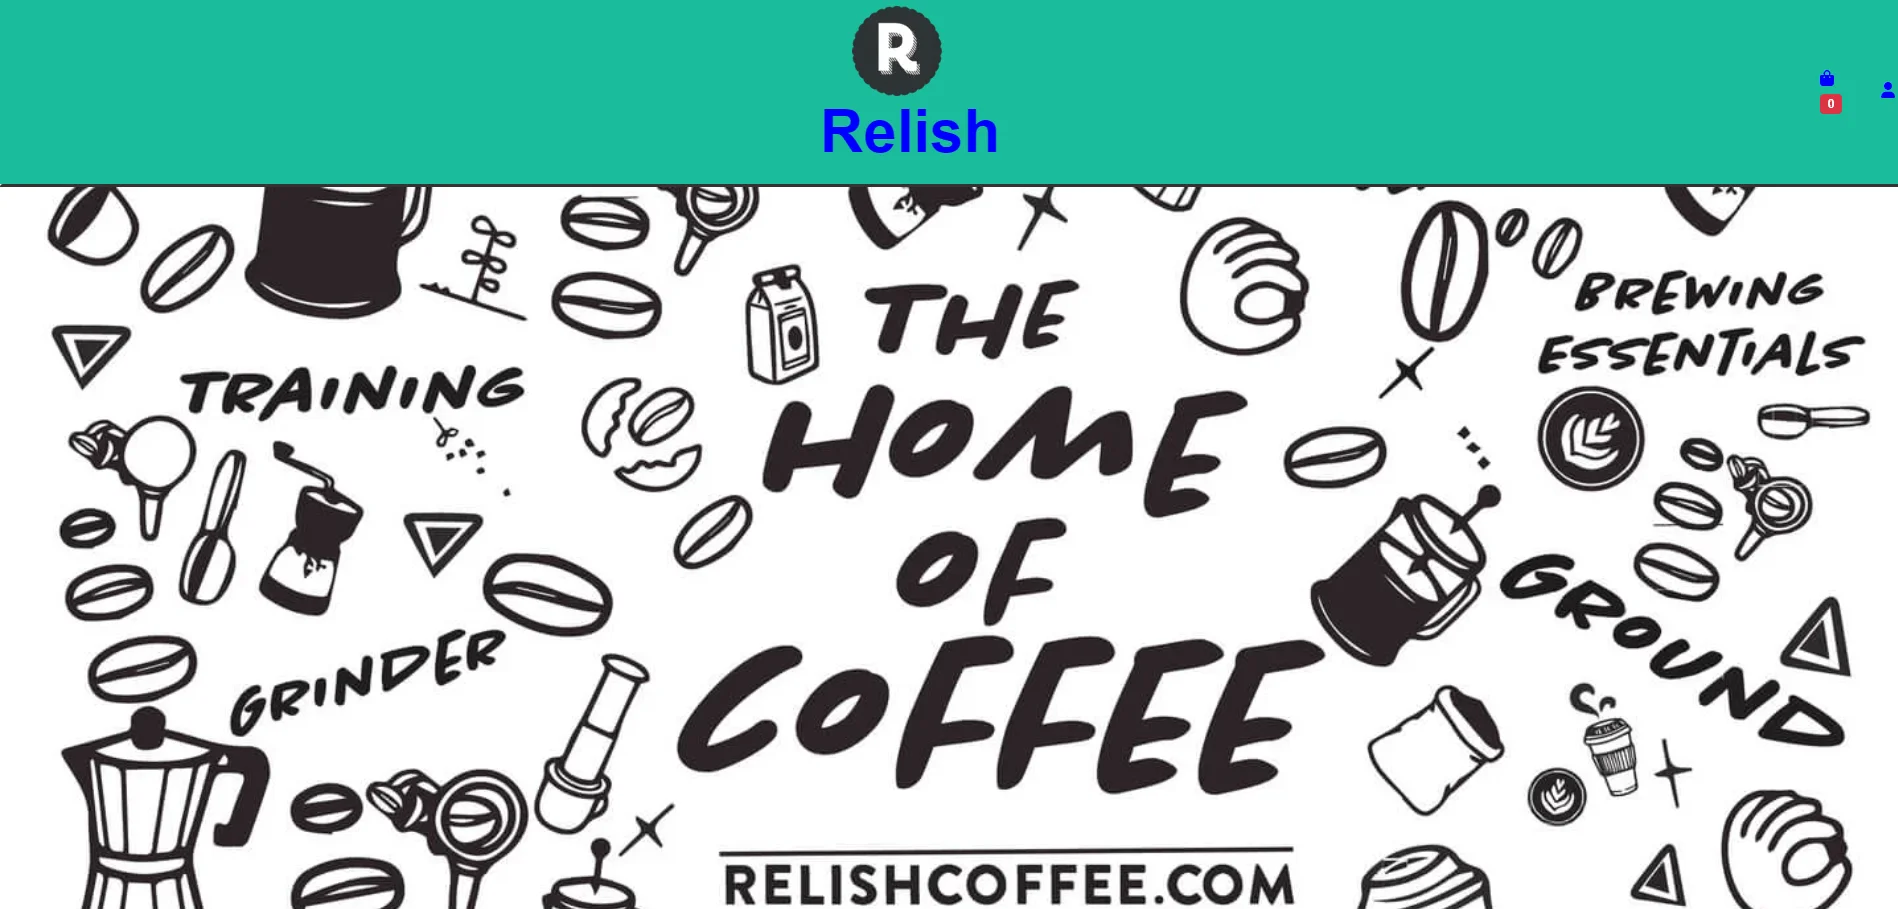
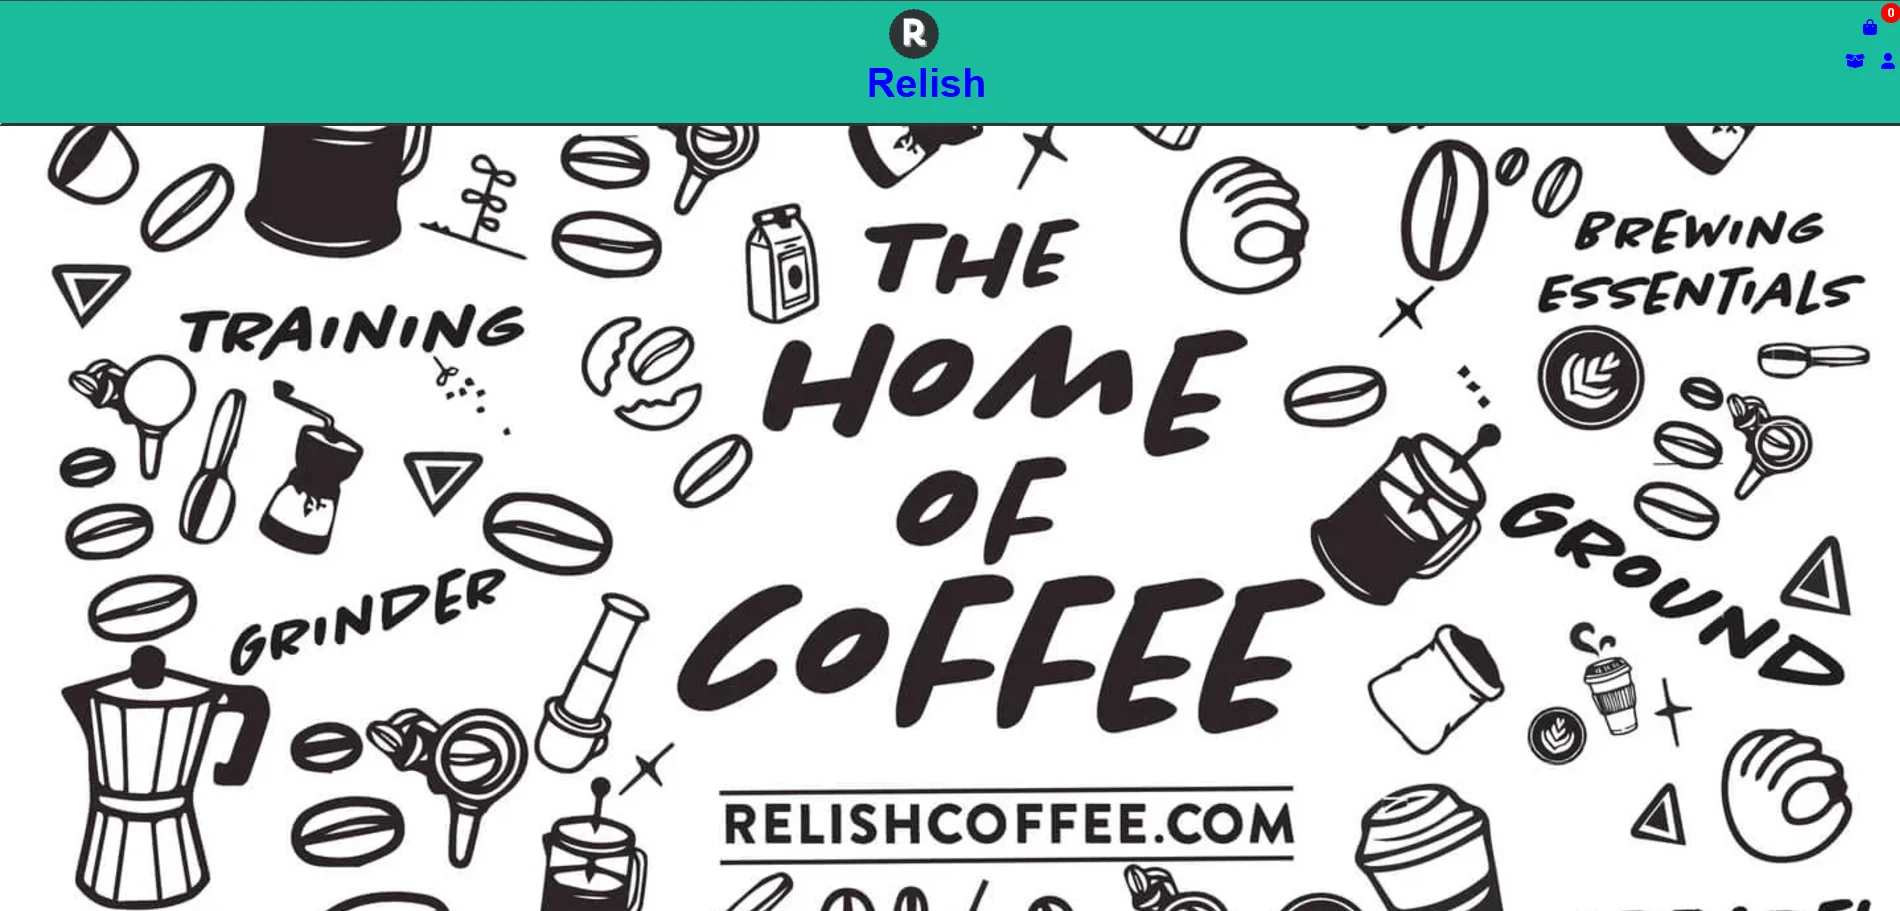
final: collectstatic

diff --git a/staticfiles/css/style.css b/staticfiles/css/style.css
@@ -13,7 +13,7 @@
 
 .brand-logo {
     width: auto;
-    height: 90px;
+    height: 50px;
     max-width: 100%;
     margin-right: 10px;
 }
@@ -21,7 +21,7 @@
 .brand-name {
     color: blue;
     font-family: 'Chantal Bold Italic', sans-serif;
-    font-size: 60px;
+    font-size: 40px;
     font-weight: bold;
     text-align: center;
 }
@@ -131,11 +131,6 @@ body {
 
 .dark-bg {
     background-color: #1ABC9C;
-}
-
-.footer {
-    width: 100%;
-    text-align: center;
 }
 
 .form {
@@ -381,14 +376,39 @@ body {
     width: 100%;
 }
 
+/*---------------------------------------------------Footer*/
+.footer {
+    font-size: 1rem;
+}
+  
+.footer .social-links {
+    display: inline-flex;
+    gap: 1rem;
+}
+  
+.footer .social-link {
+    color: #007bff;
+    font-size: 1.5rem;
+    transition: color 0.3s ease;
+}
+  
+.footer .social-link:hover {
+    color: #ffffff;
+}
+  
+.footer p {
+    margin: 0;
+    font-size: 0.9rem;
+}
+
 /*---------------------------------------------------MailChimp*/
 #mc_embed_signup {
-    background: #fff;
-    clear: left;
-    font-family: Helvetica, Arial, sans-serif;
-    font-size: 14px;
-    width: 600px;
-}
+    max-width: 100%; /* Ensures the form doesn’t exceed the screen width */
+  }
+  
+  #mc_embed_shell {
+    width: 100%; /* Ensures the container adapts to screen size */
+  }
 
 /*---------------------------------------------------Media Queries*/
 @media (max-width: 768px) {
@@ -432,6 +452,18 @@ body {
         max-width: 150px;
         font-size: 0.8rem;
     }
+
+    #mc_embed_signup {
+        padding: 20px;
+    }
+    
+    #mc_embed_signup h2 {
+        font-size: 1.25rem;
+    }
+    
+    #mc_embed_signup .form-label {
+        font-size: 1rem;
+    }
 }
 
 @media (max-width: 576px) {
@@ -466,6 +498,18 @@ body {
 
     .d-flex {
         flex-direction: column;
+    }
+
+    #mc_embed_signup {
+        padding: 15px;
+    }
+    
+    #mc_embed_signup h2 {
+        font-size: 1rem;
+    }
+    
+    #mc_embed_signup p {
+        font-size: 0.9rem;
     }
 }
 
